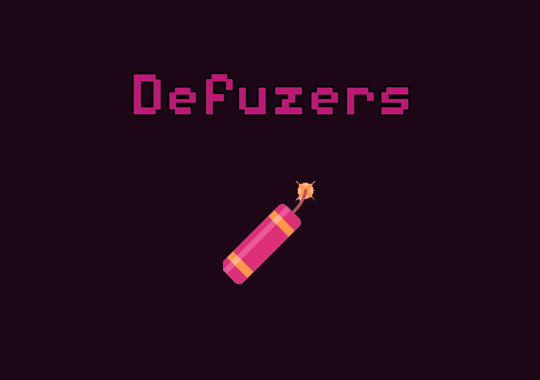
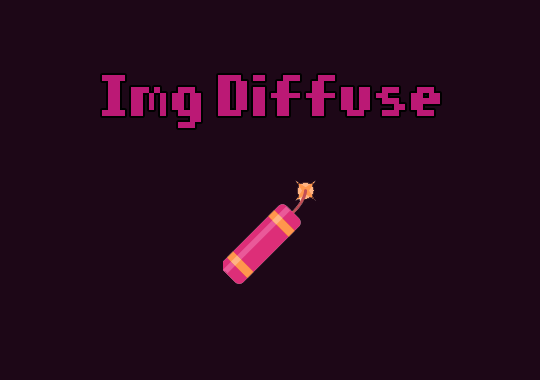
rename

Changed region(s): [[0.1778, 0.1737, 0.8296, 0.3474]]

diff --git a/index.html b/index.html
@@ -1,7 +1,7 @@
 <!DOCTYPE html>
 <html lang="en-US">
     <head>
-        <title>Defuzers</title>
+        <title>Img Diffuse</title>
         <!-- Browser Metadata -->
         <base href="/">
         <meta charset="utf-8">
@@ -9,12 +9,12 @@
         <meta http-equiv="X-UA-Compatible" content="IE=edge,chrome=1">
         <!-- Search Engine Metadata -->
         <meta name="author" content="Moebits">
-        <meta name="description" content="Defuzers">
+        <meta name="description" content="Img Diffuse">
         <meta name="keywords" content="diffusion">
         <!-- Twitter Tags -->
         <meta name="og:title" content="Defusers">
-        <meta name="og:description" content="Defuzers">
-        <meta name="og:image" content="https://github.com/Moebits/Defuzers/raw/main/assets/icons/favicon.png?raw=true">
+        <meta name="og:description" content="Img Diffuse">
+        <meta name="og:image" content="https://github.com/Moebits/Img Diffuse/raw/main/assets/icons/favicon.png?raw=true">
         <meta name="twitter:card" content="summary_large_image">
         <!-- Links -->
         <link rel="icon" type="image/x-icon" href="https://i.imgur.com/Slu1N0Z.png">

diff --git a/components/TitleBar.tsx b/components/TitleBar.tsx
@@ -219,7 +219,7 @@ const TitleBar: React.FunctionComponent<Props> = (props) => {
             <div className="titlebar-logo-container" onClick={titleClick}>
                 <span className="titlebar-hover">
                     <div className="titlebar-text-container">
-                        <span className={`titlebar-text`}>Defuzers</span>
+                        <span className={`titlebar-text`}>Img Diffuse</span>
                     </div>
                 </span>
             </div>

diff --git a/pages/MainPage.tsx b/pages/MainPage.tsx
@@ -22,7 +22,7 @@ const MainPage: React.FunctionComponent = (props) => {
     const {tab, setTab} = useContext(TabContext)
 
     useEffect(() => {
-        document.title = "Defuzers"
+        document.title = "Img Diffuse"
     }, [])
 
     useEffect(() => {

diff --git a/routes/convert_to_ckpt.py b/routes/convert_to_ckpt.py
@@ -250,6 +250,35 @@ def convert_text_enc_state_dict_v20(text_enc_dict):
 def convert_text_enc_state_dict(text_enc_dict):
     return text_enc_dict
 
+def convert_vae(model_path, checkpoint_path, half=True, safetensors=False, metadata={}):
+    vae_path = osp.join(model_path, "vae", "diffusion_pytorch_model.safetensors")
+
+    if osp.exists(vae_path):
+        vae_state_dict = load_file(vae_path, device=get_device())
+    else:
+        vae_path = osp.join(model_path, "vae", "diffusion_pytorch_model.bin")
+        vae_state_dict = torch.load(vae_path, map_location=get_device())
+
+    # Convert the VAE model
+    vae_state_dict = convert_vae_state_dict(vae_state_dict)
+    vae_state_dict = {"first_stage_model." + k: v for k, v in vae_state_dict.items()}
+
+    # Put together new checkpoint
+    state_dict = {**vae_state_dict}
+    if half:
+        state_dict = {k: v.half() for k, v in state_dict.items()}
+
+    if pathlib.Path(checkpoint_path).suffix == ".safetensors":
+        safetensors = True
+        
+    if safetensors:
+        save_file(state_dict, checkpoint_path, metadata=metadata)
+    else:
+        state_dict = {"state_dict": state_dict}
+        for k, v in metadata.items():
+            state_dict[k] = v
+        torch.save(state_dict, checkpoint_path)
+
 def convert_to_ckpt(model_path, checkpoint_path, half=True, safetensors=False, metadata={}):
     unet_path = osp.join(model_path, "unet", "diffusion_pytorch_model.safetensors")
     vae_path = osp.join(model_path, "vae", "diffusion_pytorch_model.safetensors")
@@ -259,6 +288,8 @@ def convert_to_ckpt(model_path, checkpoint_path, half=True, safetensors=False, m
         unet_state_dict = load_file(unet_path, device=get_device())
     else:
         unet_path = osp.join(model_path, "unet", "diffusion_pytorch_model.bin")
+        if not osp.exists(unet_path):
+            return convert_vae(model_path, checkpoint_path, half, safetensors, metadata)
         unet_state_dict = torch.load(unet_path, map_location=get_device())
 
     if osp.exists(vae_path):

diff --git a/post.py b/post.py
@@ -8,8 +8,8 @@ import pathlib
 
 dirname = os.path.dirname(__file__)
 
-name = "defuzers"
-name_cap = "Defuzers"
+name = "img-diffuse"
+name_cap = "Img Diffuse"
 tmp_dir = "tmp"
 build_dir = "build"
 app_bundle_dir = "app"
@@ -115,7 +115,7 @@ def build_zip():
     zip_file(os.path.join(dirname, build_dir, name), os.path.join(dirname, build_dir, f"{name}.zip"))
 
 def build_app():
-    os.remove(os.path.join(dirname, "Defuzers.spec"))
+    os.remove(os.path.join(dirname, "Img Diffuse.spec"))
     shutil.rmtree(os.path.join(dirname, tmp_dir))
     internal_resources_raw = os.listdir(os.path.join(dirname, app_bundle_dir, f"{name_cap}.app/Contents/Resources"))
     internal_resources = list(map(lambda x: os.path.join(dirname, app_bundle_dir, f"{name_cap}.app/Contents/Resources", x), internal_resources_raw))
@@ -168,7 +168,7 @@ def build_app():
     shutil.rmtree(os.path.join(dirname, app_bundle_dir, name_cap))
 
 def build_exe():
-    os.remove(os.path.join(dirname, "Defuzers.spec"))
+    os.remove(os.path.join(dirname, "Img Diffuse.spec"))
     shutil.rmtree(os.path.join(dirname, tmp_dir))
 
     copy_to_resources = ["dialog", "dist", "models", "outputs", "config.json", "main.exe"]

diff --git a/routes/info.py b/routes/info.py
@@ -390,6 +390,16 @@ def save_images():
         location = os.path.join(get_outputs_dir(), "novel ai/saved.json")
     if generator_type == "holara ai":
         location = os.path.join(get_outputs_dir(), "holara ai/saved.json")
+    
+    if not saved:
+        with open(os.path.normpath(location), "r") as f:
+            try:
+                existing_data = json.load(f)
+                if len(existing_data) > 1:
+                    return
+            except:
+                pass
+    
     with open(os.path.normpath(location), "w") as f:
         json.dump(saved, f, indent=4)
     return "done"

diff --git a/dmg.py b/dmg.py
@@ -1,8 +1,8 @@
 format="UDBZ"
-files=["app/Defuzers.app"]
+files=["app/Img Diffuse.app"]
 symlinks = {"Applications": "/Applications"}
-badge_icon="assets/icons/Defuzers.icns"
+badge_icon="assets/icons/Img Diffuse.icns"
 background="assets/images/dmg-background.png"
-icon_locations = {"Defuzers.app": (40, 220), "Applications": (350, 220)}
+icon_locations = {"Img Diffuse.app": (40, 220), "Applications": (350, 220)}
 window_rect = ((100, 100), (540, 410))
 icon_size=100

diff --git a/main.py b/main.py
@@ -77,7 +77,7 @@ def load_config():
         port = data["port"]
 
 if __name__ == "__main__":
-    parser = argparse.ArgumentParser(prog="Defuzers")
+    parser = argparse.ArgumentParser(prog="Img Diffuse")
     parser.add_argument("-d", "--directml", action="store_true")
     args = parser.parse_args()
     update_directml(args.directml)

diff --git a/readme.md b/readme.md
@@ -1,9 +1,8 @@
-# Defuzers
+# Img Diffuse
 
 <img src="assets/images/readme.png">
 
-Defuzers is an UI for diffusers (an image generation library). The inferencing and training of diffusion 
-models is supported. It aims to be simple and fast to use.
+Img Diffuse is an image generation UI (using diffusers) that aims to be simple and fast to use.
 
 ### Features
 - Generate images from text input.
@@ -46,20 +45,20 @@ models is supported. It aims to be simple and fast to use.
 
 There are precompiled binaries for MacOS arm64 and Windows x64 
 that don't require compiling the project from source. However, updates 
-will be pushed out slower. https://github.com/Moebits/Defuzers/releases 
+will be pushed out slower. https://github.com/Moebits/Img Diffuse/releases 
 
 ### Model Files
 
 The model files required for the default functionality are available here. You 
 will need to have about 20GB of free disk space. \
-https://huggingface.co/defuzers/models
+https://huggingface.co/img-diffuse/models
 
 ### MacOS
 
 To run on MacOS, you may need to remove the quarantine flags. 
 
 ```
-xattr -d com.apple.quarantine /Applications/Defuzers.app
+xattr -d com.apple.quarantine /Applications/Img\ Diffuse.app
 ```
 
 ### Windows
@@ -70,7 +69,7 @@ write access to the installation location.
 ### CUDA
 
 This is the torch compiled with CUDA support, replace the one in `_internal/torch` with this one.
-https://huggingface.co/defuzers/torch/blob/main/torch-cuda.zip
+https://huggingface.co/img-diffuse/torch/blob/main/torch-cuda.zip
 
 ### DirectML
 
@@ -89,11 +88,11 @@ Git LFS: https://git-lfs.com
 
 Clone the repository.
 ```sh
-git clone https://github.com/Moebits/Defuzers.git
-cd defuzers
+git clone https://github.com/Moebits/Img-Diffuse.git
+cd img-diffuse
 ```
 
-Download the models from https://huggingface.co/defuzers/models
+Download the models from https://huggingface.co/img-diffuse/models
 and place them in the correct folder in "models". This script 
 should download all of them. 
 
@@ -101,7 +100,7 @@ should download all of them.
 you aren't going to use them.
 ```sh
 git lfs install
-git clone https://huggingface.co/defuzers/models
+git clone https://huggingface.co/img-diffuse/models
 ```
 
 Install the code dependencies.
